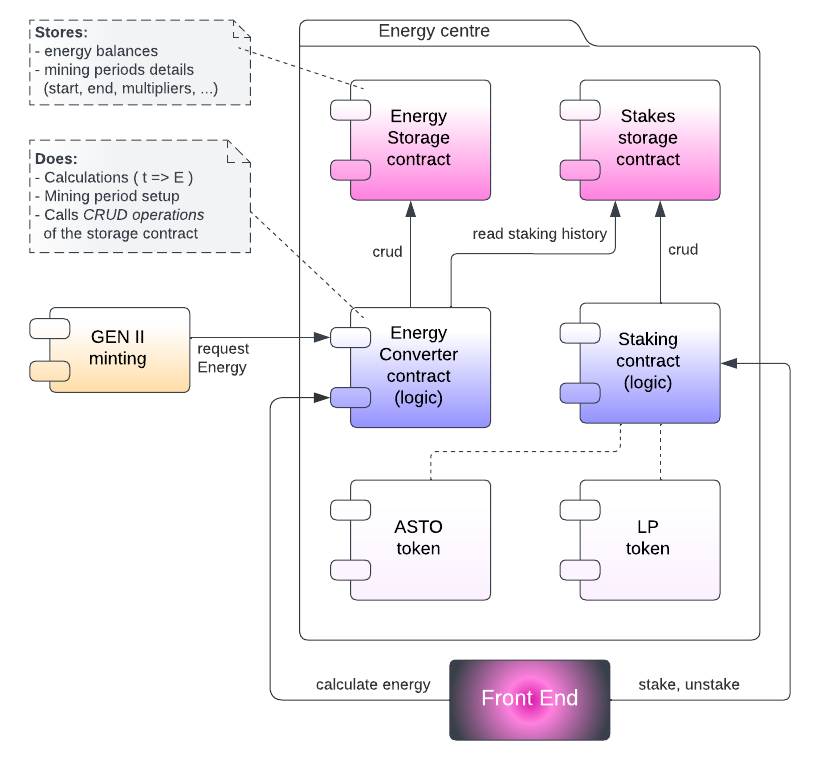
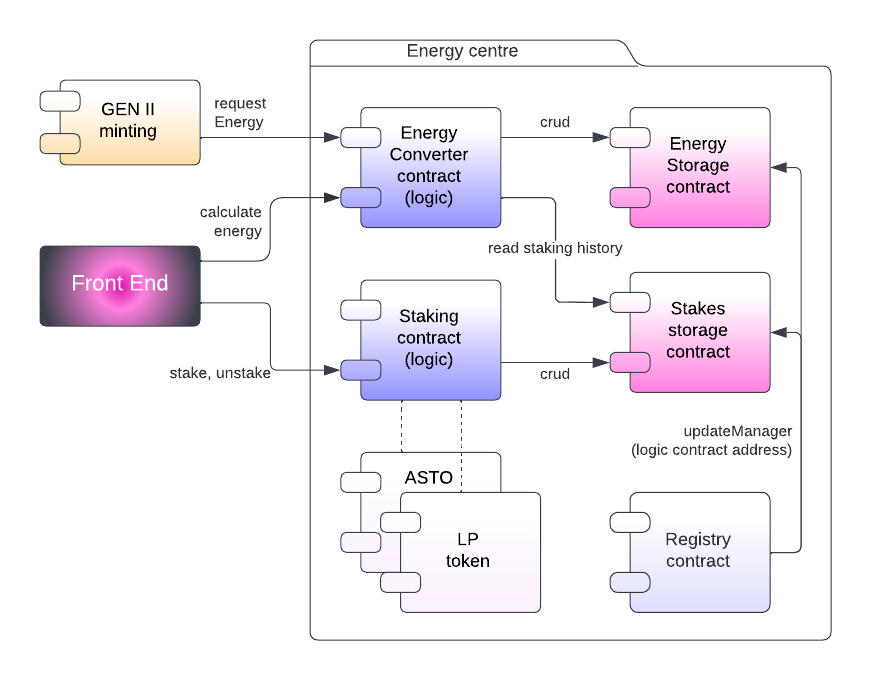
audit docs update: registry contract

diff --git a/audit/architecture.md b/audit/architecture.md
@@ -1,0 +1,21 @@
+# Architecture
+
+![GEN II Brains Minting event](assets/architecture.png)
+
+In case we want to update logic we can develop and deploy a completely new logic contract with a hard-coded storage(s) address(es). We should be able to change the address of the contract that has rights to CRUD operations:
+
+`function updateManager(address newLogicContract) external onlyOwner {}`
+
+Replacing the Converter contract will require 2 updates, in both storages.
+
+To decrease the number of votes required from DAO we can use the Registry contract, that can call `updateManager()` for both storages at once.
+
+We don’t need to use it to update addresses in the logic contract, as they can be redeployed without DAO (but will still require updates in their storage).
+
+### Pros:
+
+low complexity, clear logic, good readability, and average development efforts.
+
+### Cons:
+
+Storage contracts still have some logic `updateManager()`

diff --git a/audit/converter_uc.md b/audit/converter_uc.md
@@ -1,7 +1,5 @@
 # Energy Converter contracts use cases
 
-![Architecture](assets/architecture.png)
-
 ## Energy Converter Storage use cases
 
 ![Energy Converter Storage use cases](assets/converter_storage_uc.png)

diff --git a/audit/staking_uc.md b/audit/staking_uc.md
@@ -1,7 +1,5 @@
 # Staking contracts use cases
 
-![Architecture](assets/architecture.png)
-
 ## Staking Storage use cases
 
 ![Staking Storage contracts use cases](assets/staking_storage_uc.png)
